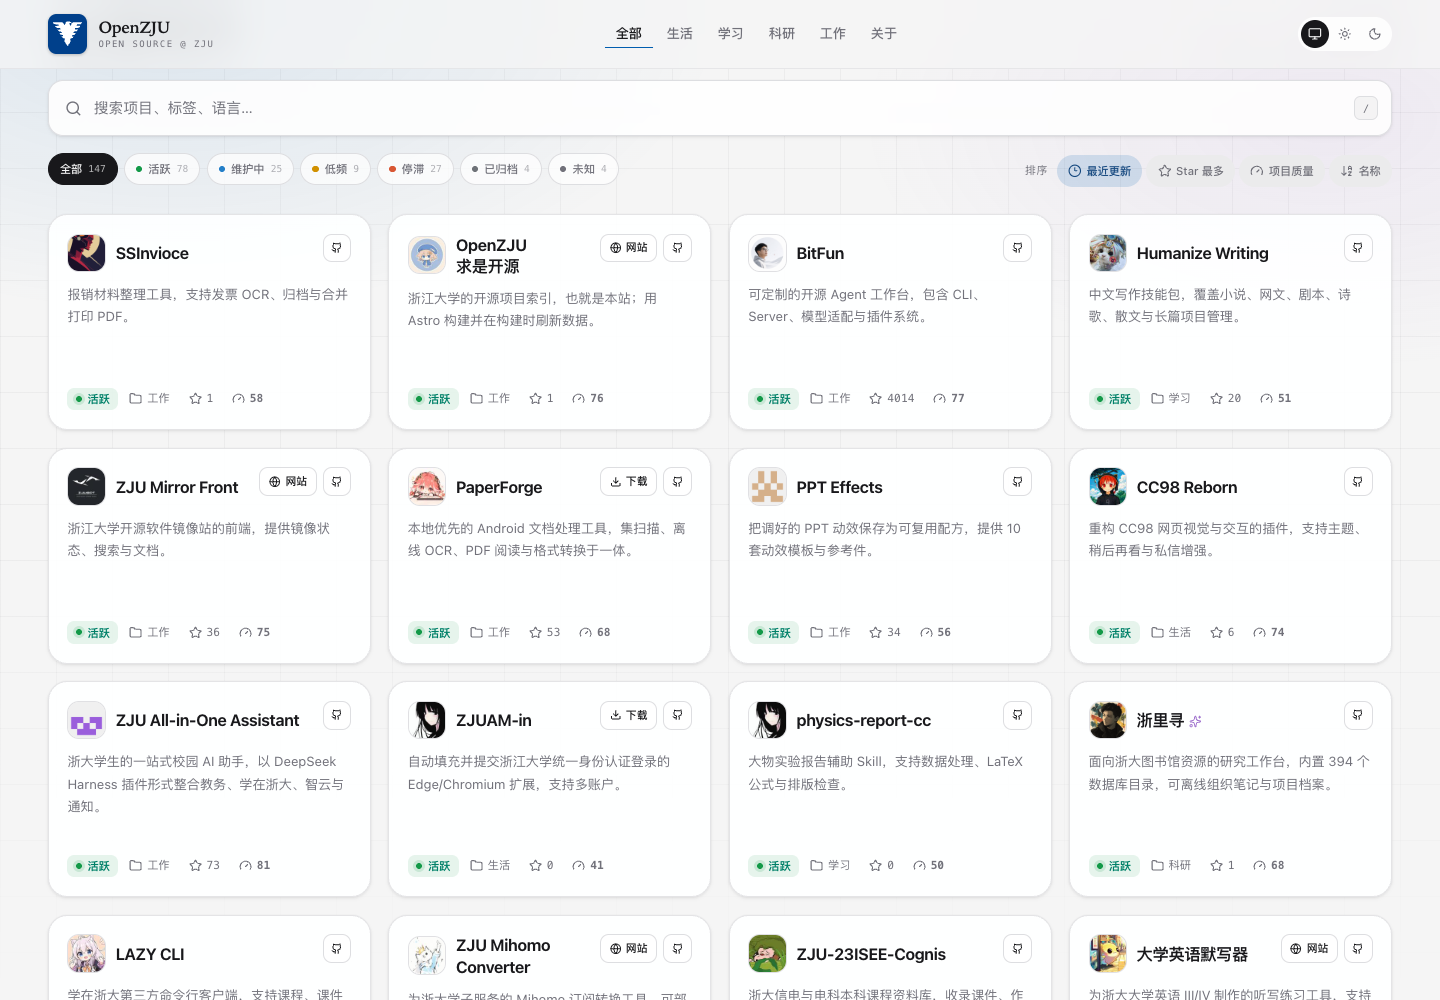
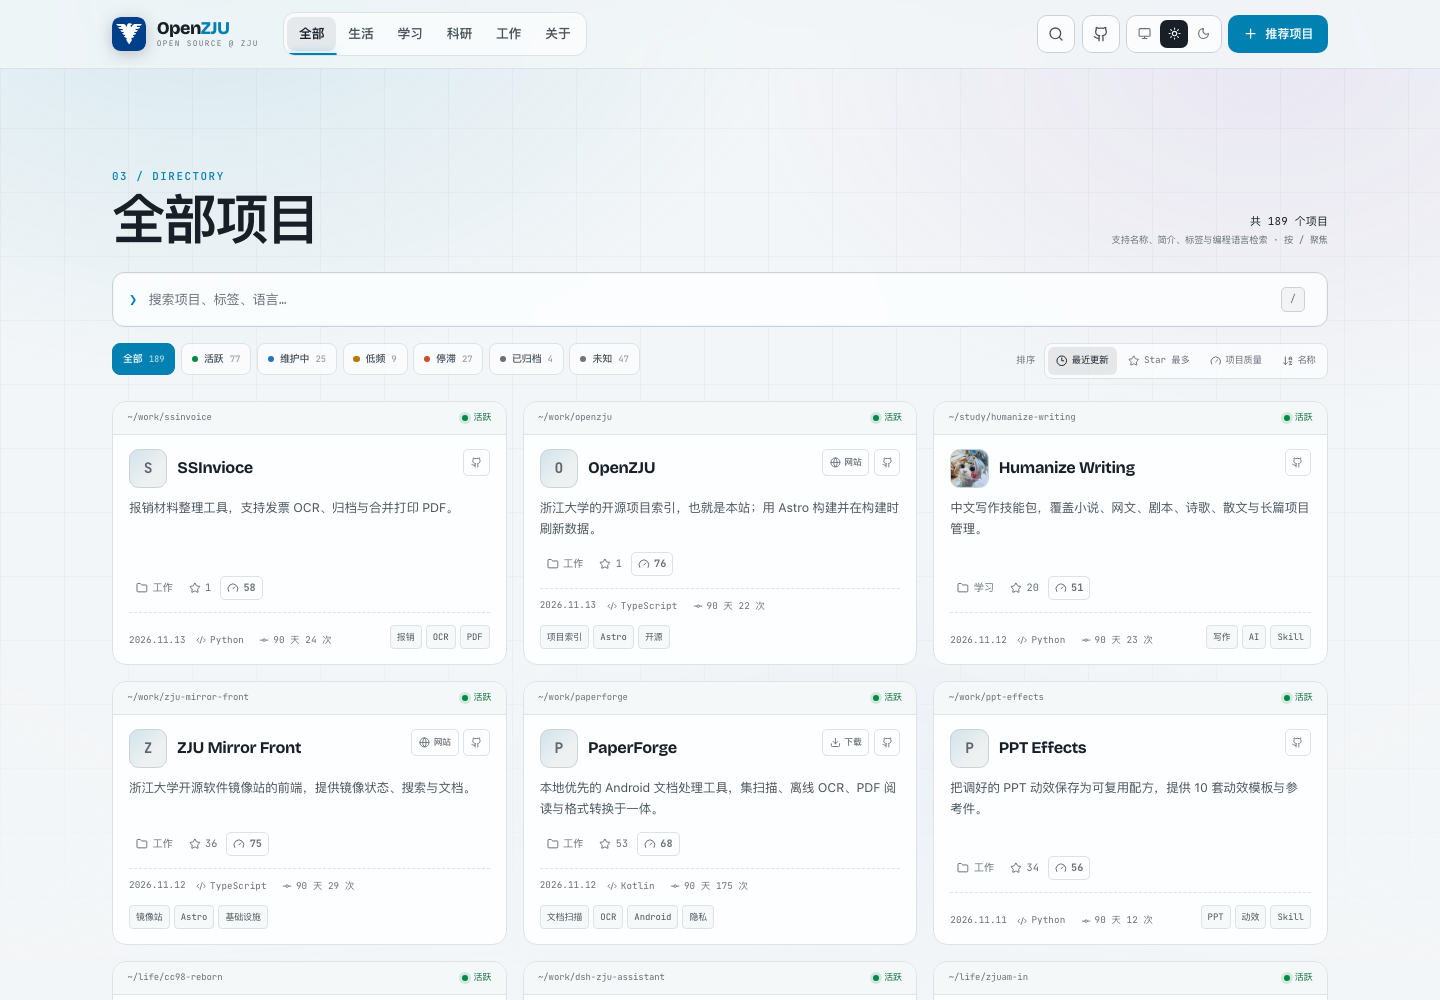
docs(readme): 更新预览截图与主题说明
- 重新生成白天/黑夜首页、项目目录、分类页与移动端截图
- 预览截图切换为新的终端风格首页
- README 主题说明更新为默认黑夜模式

diff --git a/README.en.md b/README.en.md
@@ -42,7 +42,7 @@ The site does not host code and does not rank projects. It collects entry points
 - **Static search**: match names, descriptions, tags, categories, languages and licenses entirely in the browser.
 - **Composable filters**: maintenance status, sort by recent activity / stars / quality score / name, with URL state.
 - **Tags as entry points**: click a tag to search for it.
-- **Light / dark / system themes**: follows the system by default and remembers explicit choices.
+- **Light / dark / system themes**: defaults to dark, with light and system modes available and remembered.
 - **Swup page transitions**: no full-page flash, with accessibility, head updates and scroll handling preserved.
 - **Responsive grid**: global scrolling and adaptive columns from mobile to wide screens.
 - **Accessibility**: skip link, keyboard shortcuts, focus management, live result counts and reduced-motion support.

diff --git a/README.md b/README.md
@@ -42,7 +42,7 @@
 - **静态搜索**：按名称、简介、标签、分类、语言、License 搜索，不依赖服务端。
 - **组合筛选**：维护状态筛选、最近更新 / Star / 质量评分 / 名称排序，筛选条件会同步到 URL。
 - **标签即入口**：点击卡片标签即可按标签搜索。
-- **明暗主题**：默认跟随系统，也可手动选择白天或黑夜模式，选择会持久化。
+- **明暗主题**：默认使用黑夜模式，也可手动切换白天或跟随系统，选择会持久化。
 - **Swup 页面过渡**：路由切换无整页白屏，同时保留可访问性、head 更新与滚动行为。
 - **响应式布局**：从手机到宽屏的全局滚动与自适应网格。
 - **可访问性**：跳过链接、键盘快捷键、焦点管理、状态播报与减少动效支持。
